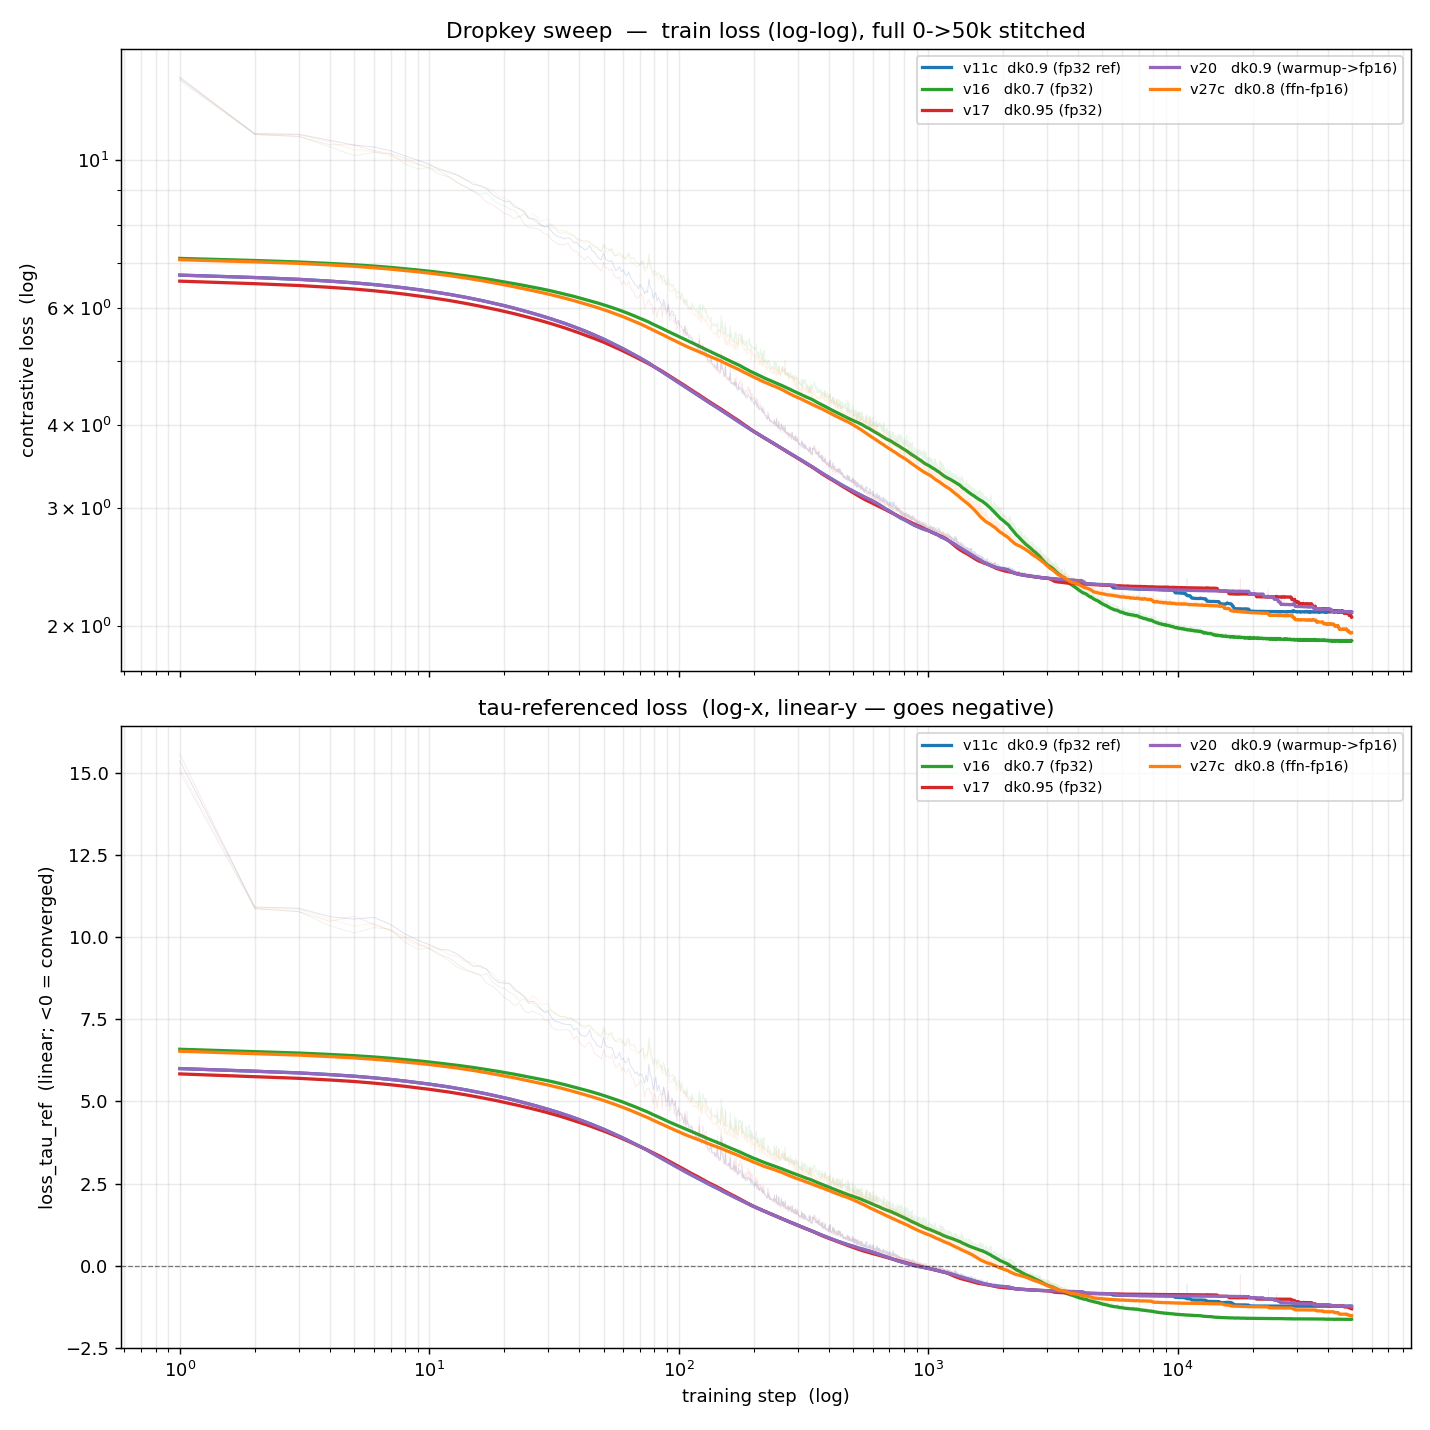
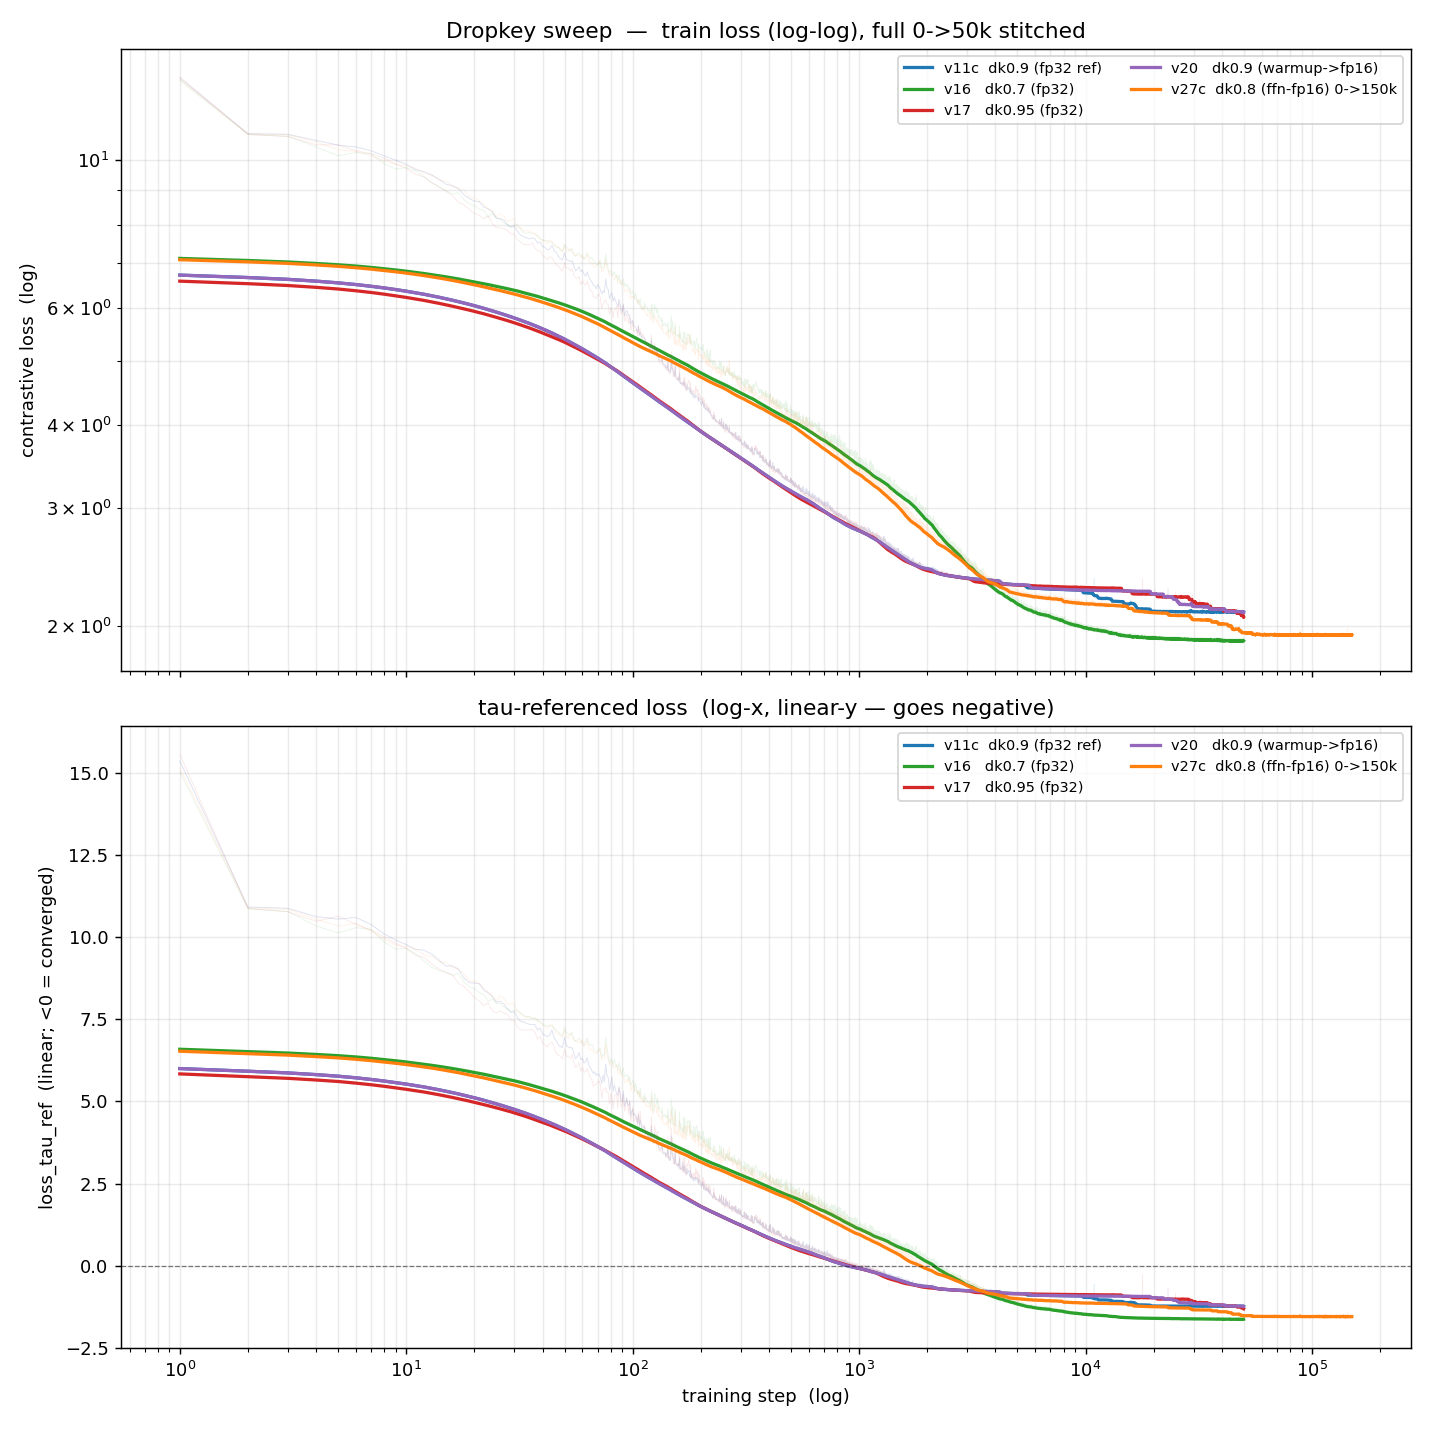
plot(sweep): add 150k trajectories — dk0.9 pure-fp32 stable vs v20 warmup->fp16 diverging
New log-log figure sweep_train_curves_loglog_150k.png overlays the session's
new 150k runs on the sweep: v27c extended 0->150k, dk0.9 PURE-FP32 0->150k
(stable, the bet reference), and v20 dk0.9 warmup->fp16 which DIVERGES ~45k
(loss spikes 2->10+). v27c arm in the base figures also extended to 150k.

diff --git a/experiments/2026-05-11_exp_encoder_forecaster/scripts/plot_sweep_train_curves.py b/experiments/2026-05-11_exp_encoder_forecaster/scripts/plot_sweep_train_curves.py
@@ -33,10 +33,19 @@ SWEEP = [
     ("v20   dk0.9 (warmup->fp16)", "#9467bd", [
         ("enc_fcst_v20_phaseA_fp32warmup_5k_losses.csv", 1, 5000),
         ("enc_fcst_v20_v11c_freshwarmup_fp16_50k_losses.csv", 5001, 50000)]),
-    ("v27c  dk0.8 (ffn-fp16)", "#ff7f0e", [
+    ("v27c  dk0.8 (ffn-fp16) 0->150k", "#ff7f0e", [
         ("enc_fcst_v27_dk08_ffnfp16_50k_losses.csv", 1, 20000),
         ("enc_fcst_v27b_dk08_ffnfp16_resume20k_50k_losses.csv", 20001, 25000),
-        ("enc_fcst_v27c_dk08_ffnfp16_resume25k_50k_losses.csv", 25001, 50000)]),
+        ("enc_fcst_v27c_dk08_ffnfp16_resume25k_50k_losses.csv", 25001, 50000),
+        ("enc_fcst_v27c_dk08_ffnfp16_150k_losses.csv", 50001, 150000)]),
+]
+# NEW 150k trajectories added this session
+NEW150K = [
+    ("dk0.9 PURE-FP32 0->150k (bet ref)", "#17becf", [
+        ("enc_fcst_dk09_fp32_150k_losses.csv", 1, 150000)]),
+    ("v20 dk0.9 warmup->fp16 (DIVERGES ~45k)", "#000000", [
+        ("enc_fcst_v20_phaseA_fp32warmup_5k_v150_losses.csv", 1, 5000),
+        ("enc_fcst_v20_freshwarmup_fp16_150k_losses.csv", 5001, 150000)]),
 ]
 EXTRA = [
     ("v13   dk0.9 (fcst-bottleneck128)", "#8c564b", [
@@ -113,4 +122,7 @@ if __name__ == "__main__":
     make_fig(SWEEP, "Dropkey sweep", "sweep_train_curves_loglog.png")
     make_fig(SWEEP + EXTRA, "Dropkey sweep + bottleneck/fcst-depth",
              "sweep_train_curves_loglog_with_bottleneck.png")
+    make_fig(SWEEP + NEW150K, "Dropkey sweep + NEW 150k trajectories "
+             "(dk0.9 pure-fp32 stable vs v20 warmup->fp16 diverging)",
+             "sweep_train_curves_loglog_150k.png")
     print("done.")
